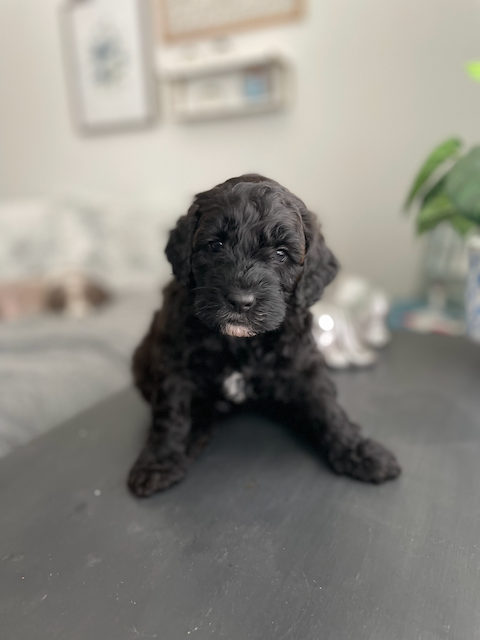
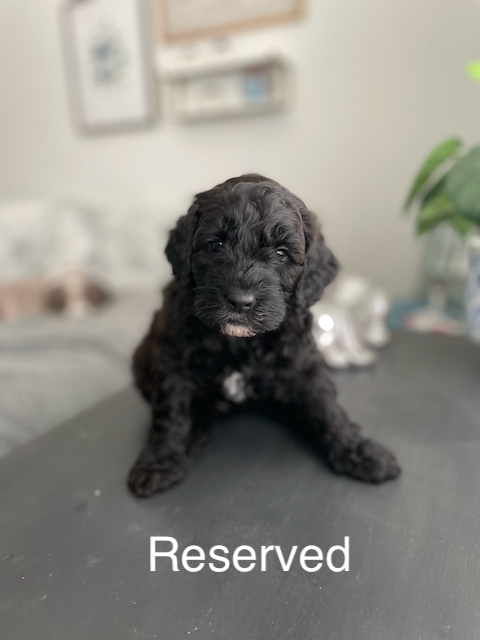
Donner is reserved

Changed region(s): [[0.3125, 0.8125, 0.75, 0.9062]]

diff --git a/index.html b/index.html
@@ -224,14 +224,10 @@
                   </div>
                   <div class="col">
                     <div class="card h-100" id="donner">
-                      <a href="donner.html">
                         <img src="puppies/donner-new.png" class="card-img-top" alt="Donner">
-                      </a>
                       <div class="card-body">
                         <h1 class="card-title text-center">
-                        <a href="donner.html">
                             Donner (male)</h1>
-                        </a>
                       </div>
                     </div>
                   </div>
